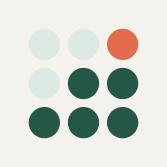
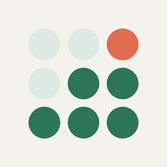
style: App 图标深绿改为新主色 #2B7656
图标里的深绿点由旧主色 #245747 改为与 primary 一致的 #2B7656，橙点、浅绿点、底色不变。
icon.svg / favicon.svg 改色，各尺寸 PNG 与 favicon.ico 按 SVG 几何重新绘制；
sw.js 缓存版本 v2 → v3。

diff --git a/public/sw.js b/public/sw.js
@@ -11,7 +11,7 @@
  * 3. index.html 走 network-first——保证推新版本后用户能拿到新代码，不会卡在旧版本。
  *    /assets/ 下是 Vite 带内容哈希的文件名（改动必然换名），可以放心 cache-first。
  */
-const VERSION = "v2";
+const VERSION = "v3";
 const SHELL_CACHE = `xiaobu-shell-${VERSION}`;
 const ASSET_CACHE = `xiaobu-assets-${VERSION}`;
 const KEEP = [SHELL_CACHE, ASSET_CACHE];

diff --git a/docs/change-log.md b/docs/change-log.md
@@ -7,6 +7,7 @@
 - **第 6 批回调**（用户反馈）：
   - 打卡矩阵在 Mac 上显示不全：打卡页改与今日页同一宽度规则（`lg` 铺满、`xl` `max-w-6xl`），今日页 Mac 上也从 `max-w-5xl` 放到 `max-w-6xl`；日期列最窄 22px（`xl` 24px）、项目名列与“本月”列收窄。实测 30 天和 31 天的月份在 Mac 1280/1440 和 iPad 横屏 1180 都不用横向滚动，iPad 竖屏和手机照旧横向滑动。
   - 本周条不再常驻“还没完成”列表：默认只显示 7 天那一行，点某一天在下方展开那天还没完成的事（未来的日子列安排），再点收起；展开区有“打开这一天”。`getWeekReview` 每天新增 `pending` 列表，测试补断言。
+- **App 图标颜色与新主色统一**：图标里的深绿点由旧主色 `#245747` 改为 `#2B7656`（橙点、浅绿点、底色不变）。`icon.svg` / `favicon.svg` 改色，`icon-1024/512/192`、`apple-touch-icon` 180/167/152、`favicon.png`、`favicon.ico`（16/32/48）按 SVG 几何重新绘制（先用旧色重画一遍与原图逐像素对比，差异只在边缘抗锯齿，确认画法一致后再换色）。`sw.js` 缓存版本 v2 → v3，让已装在主屏的 App 拿到新图标。iPad 主屏图标要删掉重新“添加到主屏幕”才会换（iOS 对已添加的图标有缓存）。
 - **修复 4 条数据安全旧账**（2026-07-17 审查遗留的 P1，外加一条 P2；设置页把“数据备份”放到了显眼位置，更容易被点到）。
   - **删除假期 / 课程后任务被同步改回去**：解绑时任务的 updatedAt 没刷新、云端也只删了假期/课程本身，下次拉取 LWW 把任务改回指向已删除的假期/课程。现在解绑刷新 updatedAt，云端模式下把被解绑的任务逐条上传。
   - **导入旧备份会灌回脏数据**：以前裸 `bulkPut`。现在任务逐条过 `sanitizeTaskWrite`（重复类本体不留完成状态、展示字段不落库、endDate 镜像），非重复任务的单日记录丢弃，导入后提示丢弃了几条。

diff --git a/docs/style.md b/docs/style.md
@@ -28,7 +28,7 @@
 
 颜色语义：
 
-- 深松墨 `ink` 负责结构与稳定感，提亮后的 `primary` 负责选中、完成和主要确认。品牌图标里的深绿仍是旧色值，图标单独维护，不随 `primary` 变化。
+- 深松墨 `ink` 负责结构与稳定感，提亮后的 `primary` 负责选中、完成和主要确认。品牌图标里的深绿与 `primary` 同为 `#2B7656`（2026-11-14 统一）。
 - 珊瑚橙 `alert` 只用于需要立刻注意或执行的元素，不用于大面积背景。
 - 学科只用 8px 色点加文字区分（语文 `#D96A52`、数学 `#5868C8`、英语 `#9364C7`、其他 `#8A948F`，定义在 `components/GroupHeading.tsx` 的 `SUBJECT_DOT`）。今日页与任务管理页的分组标题统一用 `GroupHeading`：13px 半粗、无底色、无左边线，分组之间只用细分隔线。不再使用整条浅色学科底、4px 学科左边线，也不再给每条任务加学科色块。
 - 任务管理页的大类标题（学校作业 / 课外 / 兴趣班 / 事项）只用文字，不加彩点，避免与学科色点撞色。
@@ -39,7 +39,7 @@
 
 ### 品牌图标
 
-- 唯一品牌图标是“打卡点阵”：3×3 圆点，右上角橙点（`alert`）表示今日，其余为深绿/浅绿（已完成/待做），底色 `#F4F2ED`。
+- 唯一品牌图标是“打卡点阵”：3×3 圆点，右上角橙点（`alert`）表示今日，其余为深绿 `primary #2B7656` / 浅绿 `mint`（已完成/待做），底色 `#F4F2ED`。主色再变时图标要跟着重出。
 - 源文件在 `public/`：`icon.svg`（原图）、`icon-1024.png`（原图位图）、`favicon.svg` / `favicon.ico` / `favicon.png`（浏览器标签）、`apple-touch-icon.png`（180）/ `-167` / `-152`（iOS 主屏）、`icon-192.png` / `icon-512.png`（PWA manifest）。
 - 页面内的 logo 一律用 `<img src="/favicon.svg">`，不再使用 Lucide 的日历图标做品牌；旧图标已删除，不要恢复。
 - 换图标后必须把 `public/sw.js` 的 `VERSION` 加一，否则 Service Worker 会先给缓存的旧图标。
